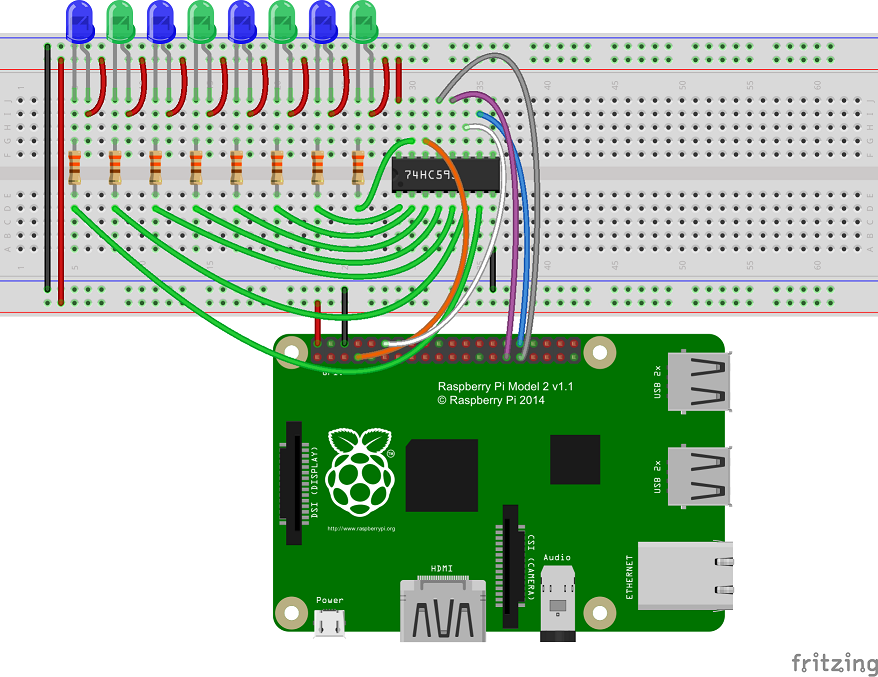
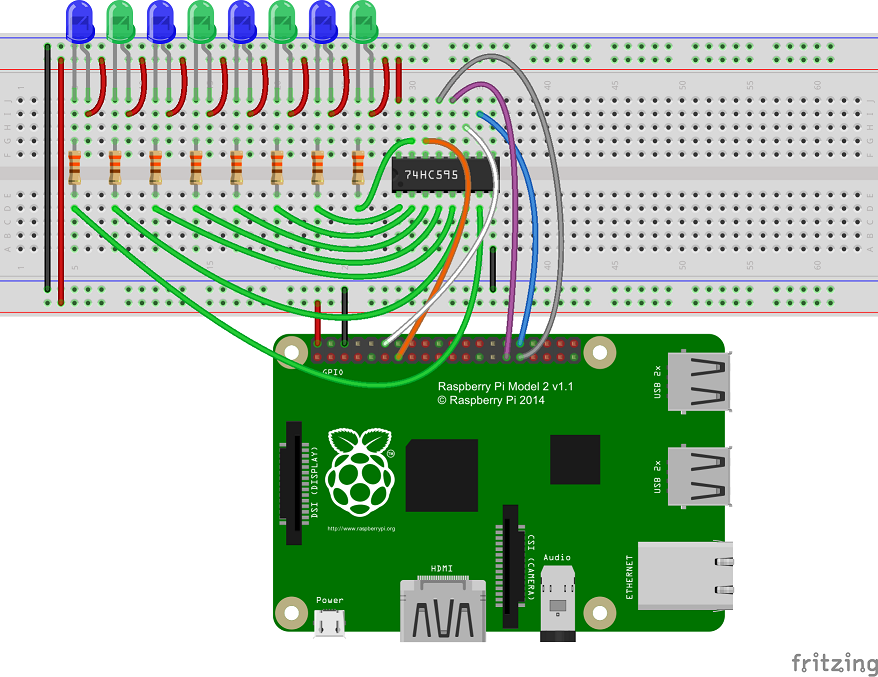
Updated ShiftRegister Sample documentation with change of SER_PIN from GPIO4 to GPIO27. Also cleaned up the code snippets to match the updated sample code.

Changed region(s): [[0.3075, 0.062, 0.6458, 0.5894], [0.0923, 0.3102, 0.2768, 0.4963], [0.2768, 0.4963, 0.3075, 0.5273]]

diff --git a/en-US/win10/samples/ShiftRegisterSample.md b/en-US/win10/samples/ShiftRegisterSample.md
@@ -85,7 +85,7 @@ Make the following connections on the 74HC595N shift register:
 
 * Pin 13 **OE**: Connect to **GPIO 6** (pin 31) on the RPi2
 
-* Pin 14 **SER**: Connect to **GPIO 4** (pin 7) on the RPi2
+* Pin 14 **SER**: Connect to **GPIO 27** (pin 13) on the RPi2
 
 * Pin 15 **Q7**: See above.
 
@@ -121,7 +121,7 @@ We need to hook up power, ground, and the I2C lines from on the Raspberry Pi 2 t
 
 * Pin 12 **GPIO18** If not already connected, connect to **SRCLK** (pin 11) on the shift register
 
-* Pin 7 **GPIO4** If not already connected, connect to **SER** (pin 14) on the shift register
+* Pin 13 **GPIO27** If not already connected, connect to **SER** (pin 14) on the shift register
 
 * Pin 29 **GPIO5** If not already connected, connect to **RCLK** (pin 12) on the shift register
 
@@ -213,7 +213,7 @@ private const int SRCLK_PIN = 18; // GPIO 18 is pin 12 on RPI2 header
 private GpioPin shiftRegisterClock;
 
 // Serial input (SER): the serial data input to the shift register. Use in conjunction with SRCLK.
-private const int SER_PIN = 4; // GPIO 4 is pin 7 on RPI2 header
+private const int SER_PIN = 27; // GPIO 27 is pin 13 on RPI2 header
 private GpioPin serial;
 
 // Storage Register Clock (RCLK): the clock for clocking data from the serial input to the parallel output in the shift register
@@ -272,26 +272,15 @@ private void InitializeSystem()
     outputEnable = gpio.OpenPin(OE_PIN);
     shiftRegisterClear = gpio.OpenPin(SRCLR_PIN);
 
-    // Show an error if the pin wasn't initialized properly
-    if (shiftRegisterClock == null || serial == null || registerClock == null || outputEnable == null || shiftRegisterClear == null)
-    {
-        GpioStatus.Text = "There were problems initializing the GPIO pin.";
-        return;
-    }
-
     // reset the pins to a known state
     shiftRegisterClock.Write(GpioPinValue.Low);
     shiftRegisterClock.SetDriveMode(GpioPinDriveMode.Output);
-
     serial.Write(GpioPinValue.Low);
     serial.SetDriveMode(GpioPinDriveMode.Output);
-
     registerClock.Write(GpioPinValue.Low);
     registerClock.SetDriveMode(GpioPinDriveMode.Output);
-
     outputEnable.Write(GpioPinValue.Low);
     outputEnable.SetDriveMode(GpioPinDriveMode.Output);
-
     shiftRegisterClear.Write(GpioPinValue.Low);
     shiftRegisterClear.SetDriveMode(GpioPinDriveMode.Output);
 
@@ -441,7 +430,7 @@ namespace ShiftRegisterSample
         private GpioPin shiftRegisterClock;
 
         // Serial input (SER): the serial data input to the shift register. Use in conjunction with SRCLK.
-        private const int SER_PIN = 4; // GPIO 4 is pin 7 on RPI2 header
+        private const int SER_PIN = 27; // GPIO 27 is pin 13 on RPI2 header
         private GpioPin serial;
 
         // Storage Register Clock (RCLK): the clock for clocking data from the serial input to the parallel output in the shift register
@@ -492,26 +481,15 @@ namespace ShiftRegisterSample
             outputEnable = gpio.OpenPin(OE_PIN);
             shiftRegisterClear = gpio.OpenPin(SRCLR_PIN);
 
-            // Show an error if the pin wasn't initialized properly
-            if (shiftRegisterClock == null || serial == null || registerClock == null || outputEnable == null || shiftRegisterClear == null)
-            {
-                GpioStatus.Text = "There were problems initializing the GPIO pin.";
-                return;
-            }
-
             // reset the pins to a known state
             shiftRegisterClock.Write(GpioPinValue.Low);
             shiftRegisterClock.SetDriveMode(GpioPinDriveMode.Output);
-
             serial.Write(GpioPinValue.Low);
             serial.SetDriveMode(GpioPinDriveMode.Output);
-
             registerClock.Write(GpioPinValue.Low);
             registerClock.SetDriveMode(GpioPinDriveMode.Output);
-
             outputEnable.Write(GpioPinValue.Low);
             outputEnable.SetDriveMode(GpioPinDriveMode.Output);
-
             shiftRegisterClear.Write(GpioPinValue.Low);
             shiftRegisterClear.SetDriveMode(GpioPinDriveMode.Output);
 
